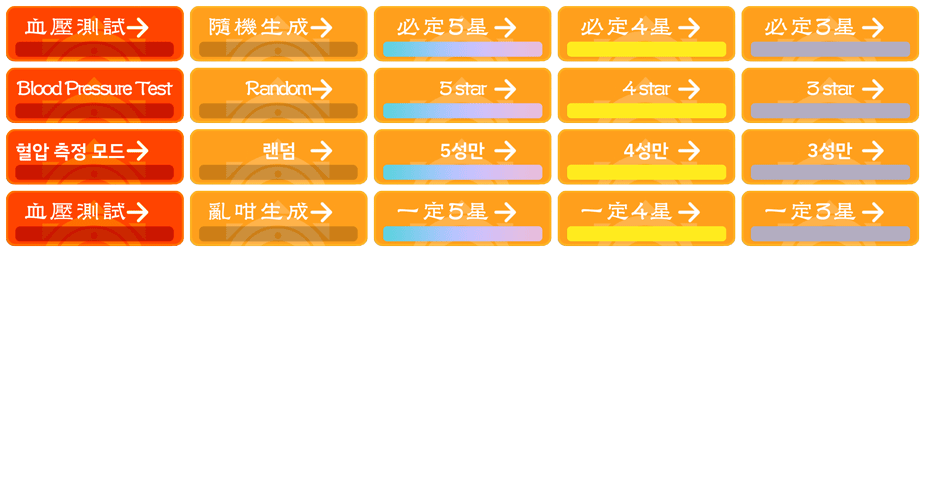
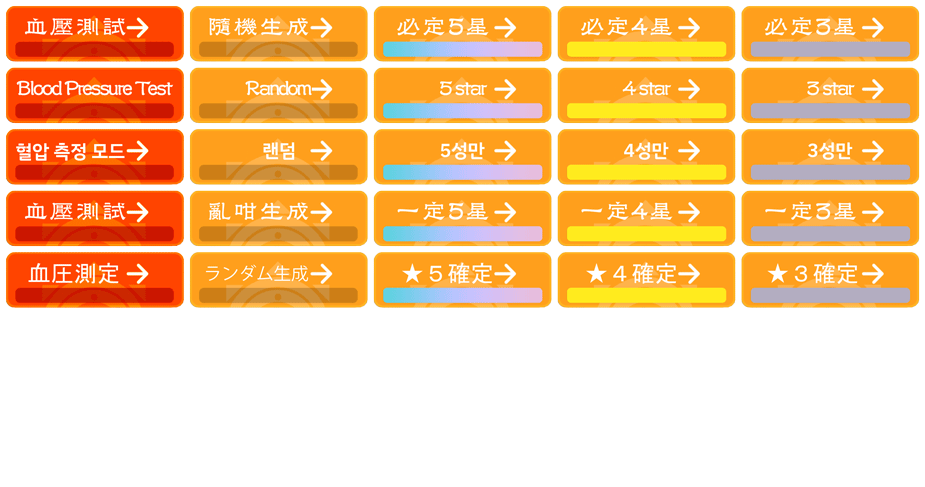
feat(lang) add ja, thank 黄縁

Changed region(s): [[0.0, 0.4928, 0.9989, 0.6468]]

diff --git a/src/components/RollButton.vue b/src/components/RollButton.vue
@@ -56,6 +56,7 @@ $zh-tw-y: -5.78px;
 $en-y: -67.2px;
 $ko-y: -128.4px;
 $zh-hk-y: -190.6px;
+$ja-y: -252.8px;
 
 $alert-x: -5.78px;
 $random-x: -189.56px;
@@ -63,8 +64,8 @@ $star-5-x: -373.34px;
 $star-4-x: -557.12px;
 $star-3-x: -740.9px;
 
-$lang-list: ($zh-tw-y, $en-y, $ko-y, $zh-hk-y);
-$lang-name: ('zh-tw', 'en', 'ko', 'zh-hk');
+$lang-list: ($zh-tw-y, $en-y, $ko-y, $zh-hk-y, $ja-y);
+$lang-name: ('zh-tw', 'en', 'ko', 'zh-hk', 'ja');
 
 @for $i from 1 to length($lang-list) +1 {
   .#{nth($lang-name, $i)}-alert {

diff --git a/src/components/SettingCard.vue b/src/components/SettingCard.vue
@@ -84,7 +84,8 @@ export default {
         { text: this.$tc("language.zh-tw"), value: "zh-tw" },
         { text: this.$tc("language.zh-hk"), value: "zh-hk" },
         { text: this.$tc("language.en"), value: "en" },
-        { text: this.$tc("language.ko"), value: "ko" }
+        { text: this.$tc("language.ko"), value: "ko" },
+        { text: this.$tc("language.ja"), value: "ja" }
       ],
       selectLanguage: this.$i18n.locale
     };

diff --git a/src/plugins/i18n.js b/src/plugins/i18n.js
@@ -4,7 +4,7 @@ import VueI18n from "vue-i18n";
 import zhHK from "../lang/zh-hk.json";
 import en from "../lang/en.json";
 import zhTW from "../lang/zh-tw.json";
-// import ja from './lang/ja.json';
+import ja from "../lang/ja.json";
 import ko from "../lang/ko.json";
 
 Vue.use(VueI18n);
@@ -13,7 +13,8 @@ const messages = {
   "zh-tw": zhTW,
   "zh-hk": zhHK,
   ko,
-  en
+  en,
+  ja
 };
 
 export default new VueI18n({

diff --git a/vue.config.js b/vue.config.js
@@ -28,7 +28,7 @@ module.exports = {
       config.plugins.push(
         new PrerenderSPAPlugin({
           staticDir: path.join(__dirname, "dist"),
-          routes: ["/ko", "/en", "/zh-tw", "/zh-hk"],
+          routes: ["/ko", "/en", "/zh-tw", "/zh-hk", "/ja"],
           renderer: new Renderer({
             renderAfterDocumentEvent: "render-event"
           }),

diff --git a/src/App.vue b/src/App.vue
@@ -32,8 +32,8 @@ export default {
         tw: "zh-tw",
         hk: "zh-hk",
         "zh-hk": "zh-hk",
-        ja: "en",
-        "jp-kp": "en",
+        ja: "ja",
+        "jp-kp": "ja",
         ko: "ko",
         "ko-kr": "ko",
         "zh-tw": "zh-tw",
